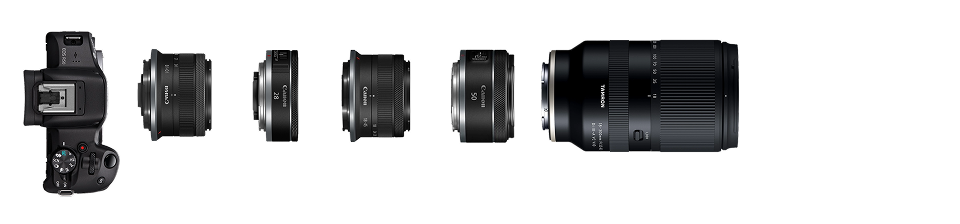
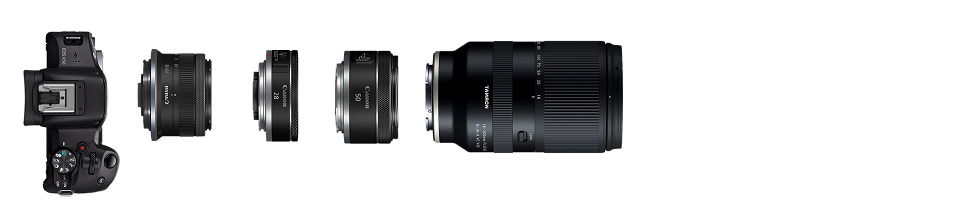
updated /uses

Changed region(s): [[0.3438, 0.1562, 0.7812, 0.6875]]

diff --git a/public/diegocosta.com.br/pages/uses/index.pt.md b/public/diegocosta.com.br/pages/uses/index.pt.md
@@ -47,7 +47,6 @@ Bem-vindo à minha página `/uses`, que lista todas as minhas ferramentas, hardw
 - **Lentes**:
   - Canon RF-S 10-18mm f/4.5-6.3 IS STM. [(Disponível para compra no Mercado Livre)](https://www.mercadolivre.com.br/lente-canon-rfs-1018mm-f4563-is-stm/up/MLBU4991636506)
   - Canon RF 28mm f/2.8mm STM (para fotografia de rua/uso diário por causa do tamanho pequeno).
-  - Canon RF-S 18-45mm f/4.5-6.3 IS STM (lente do kit). [(Disponível para compra no Mercado Livre)](https://www.mercadolivre.com.br/lente-canon-rfs-1845mm-f4563-is-stm-black-cor-preto/up/MLBU4991370416)
   - Canon RF 50mm f/1.8mm STM (para retratos e fotografia em geral).
   - Tamron 18-300mm f/3.5-6.3 Di III-A VC VXD (para fotografia de paisagem e viagem).
 

diff --git a/public/diegocosta.com.br/pages/uses/index.es.md b/public/diegocosta.com.br/pages/uses/index.es.md
@@ -47,7 +47,6 @@ summary: La página donde comparto las herramientas que hacen mi vida más fáci
 - **Lentes**:
   - Canon RF-S 10-18mm f/4.5-6.3 IS STM. [(Disponible en Mercado Livre)](https://www.mercadolivre.com.br/lente-canon-rfs-1018mm-f4563-is-stm/up/MLBU4991636506)
   - Canon RF 28mm f/2.8mm STM (para fotografía callejera/uso diario por su tamaño reducido).
-  - Canon RF-S 18-45mm f/4.5-6.3 IS STM (lente del kit). [(Disponible en Mercado Livre)](https://www.mercadolivre.com.br/lente-canon-rfs-1845mm-f4563-is-stm-black-cor-preto/up/MLBU4991370416)
   - Canon RF 50mm f/1.8mm STM (para retratos y fotografía en general).
   - Tamron 18-300mm f/3.5-6.3 Di III-A VC VXD (para fotografía de paisaje y viajes).
 

diff --git a/public/diegocosta.com.br/pages/uses/index.en.md b/public/diegocosta.com.br/pages/uses/index.en.md
@@ -48,7 +48,6 @@ Welcome to my `/uses` page that list all my tools, hardware, and software! As a 
 - **Lenses**:
   - Canon RF-S 10-18mm f/4.5-6.3 IS STM. [(Available on Mercado Livre)](https://www.mercadolivre.com.br/lente-canon-rfs-1018mm-f4563-is-stm/up/MLBU4991636506)
   - Canon RF 28mm f/2.8mm STM (for street photography/everyday carry due to its small size).
-  - Canon RF-S 18-45mm f/4.5-6.3 IS STM (kit lens). [(Available on Mercado Livre)](https://www.mercadolivre.com.br/lente-canon-rfs-1845mm-f4563-is-stm-black-cor-preto/up/MLBU4991370416)
   - Canon RF 50mm f/1.8mm STM (for portraits and general photography).
   - Tamron 18-300mm f/3.5-6.3 Di III-A VC VXD (for landscape and travel photography).
 
